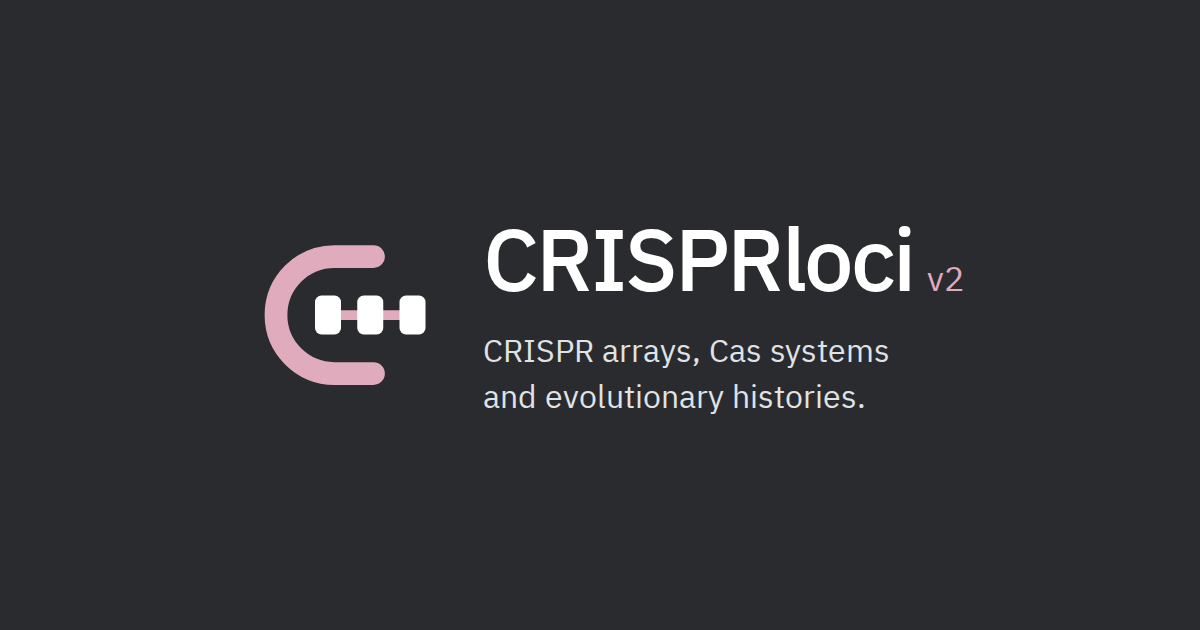
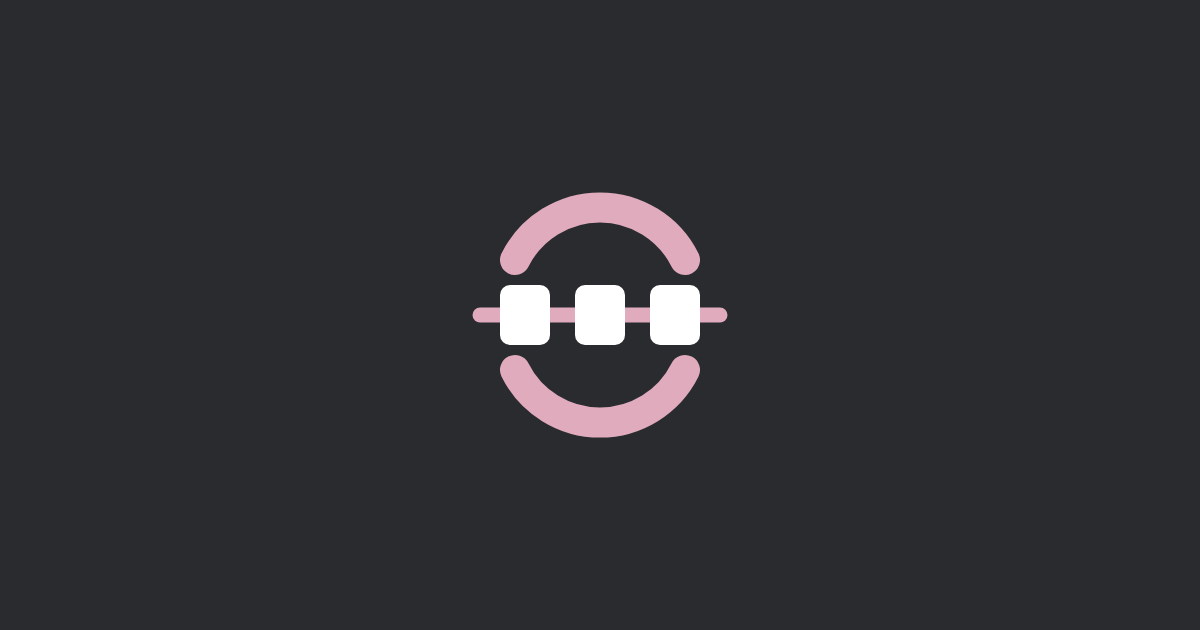
Create standalone symbol and use wordless sharing artwork

Changed region(s): [[0.2158, 0.3016, 0.8017, 0.6937]]

diff --git a/scripts/branding/social-card.html b/scripts/branding/social-card.html
@@ -2,18 +2,8 @@
 <html lang="en">
   <head>
     <meta charset="UTF-8" />
-    <title>CRISPRloci sharing artwork</title>
+    <title>CRISPRloci symbol sharing artwork</title>
     <style>
-      @font-face {
-        font-family: "IBM Plex Sans";
-        font-weight: 400;
-        src: url("../../src/assets/fonts/IBMPlexSans-Regular.woff2");
-      }
-      @font-face {
-        font-family: "IBM Plex Sans";
-        font-weight: 500;
-        src: url("../../src/assets/fonts/IBMPlexSans-Medium.woff2");
-      }
       * {
         box-sizing: border-box;
       }
@@ -21,50 +11,20 @@
         width: 1200px;
         height: 630px;
         margin: 0;
-        display: flex;
-        align-items: center;
-        justify-content: center;
-        padding: 80px;
-        gap: 38px;
-        color: #fff;
+        display: grid;
+        place-items: center;
         background: #292b2f;
-        font-family: "IBM Plex Sans", sans-serif;
       }
       img {
-        width: 208px;
-        height: 208px;
-        flex: 0 0 auto;
-      }
-      h1 {
-        margin: 0 0 20px;
-        font-size: 88px;
-        font-weight: 500;
-        letter-spacing: -3px;
-        line-height: 1.1;
-      }
-      h1 small {
-        margin-left: 14px;
-        color: #e0abbc;
-        font-size: 34px;
-        font-weight: 400;
-        letter-spacing: 0;
-      }
-      p {
-        margin: 0;
-        color: #e0e3e6;
-        font-size: 32px;
-        line-height: 1.45;
+        width: 320px;
+        height: 320px;
       }
     </style>
   </head>
   <body>
     <img
-      src="../../public/favicon.svg"
+      src="../../public/brand/logo-on-dark.svg"
       alt=""
     />
-    <div>
-      <h1>CRISPRloci<small>v2</small></h1>
-      <p>CRISPR arrays, Cas systems<br />and evolutionary histories.</p>
-    </div>
   </body>
 </html>

diff --git a/tests/social-metadata.test.js b/tests/social-metadata.test.js
@@ -14,7 +14,7 @@ describe("static sharing metadata", () => {
     (url) => {
       const tags = metadata(url);
       expect(tags["og:url"]).toBe(url);
-      expect(tags["og:image"]).toBe(`${url}brand/social-preview.png`);
+      expect(tags["og:image"]).toBe(`${url}brand/social-preview.png?v=3`);
       expect(tags["twitter:image"]).toBe(tags["og:image"]);
       expect(tags["og:image:type"]).toBe("image/png");
       expect(tags["og:image:width"]).toBe("1200");
@@ -25,7 +25,7 @@ describe("static sharing metadata", () => {
 
   it("keeps a project path when the configured site has no trailing slash", () => {
     expect(metadata("https://example.org/workbench")["og:image"]).toBe(
-      "https://example.org/workbench/brand/social-preview.png",
+      "https://example.org/workbench/brand/social-preview.png?v=3",
     );
   });
 

diff --git a/index.html b/index.html
@@ -17,18 +17,18 @@
     <link
       rel="icon"
       sizes="16x16 32x32 48x48"
-      href="%BASE_URL%favicon.ico"
+      href="%BASE_URL%favicon.ico?v=3"
     />
     <link
       rel="icon"
       type="image/svg+xml"
       sizes="any"
-      href="%BASE_URL%favicon.svg?v=2"
+      href="%BASE_URL%favicon.svg?v=3"
     />
     <link
       rel="apple-touch-icon"
       sizes="180x180"
-      href="%BASE_URL%apple-touch-icon.png"
+      href="%BASE_URL%apple-touch-icon.png?v=3"
     />
     <meta
       name="description"

diff --git a/src/components/common/BrandMark.vue b/src/components/common/BrandMark.vue
@@ -10,7 +10,7 @@ const publicBase = import.meta.env.BASE_URL;
   >
     <img
       class="brand-symbol"
-      :src="`${publicBase}favicon.svg?v=2`"
+      :src="`${publicBase}brand/logo-on-dark.svg?v=3`"
       width="40"
       height="40"
       alt=""

diff --git a/src/styles/responsive/print.css b/src/styles/responsive/print.css
@@ -8,7 +8,7 @@
     color: #000;
   }
   .brand-symbol {
-    filter: grayscale(1);
+    filter: brightness(0);
   }
   .hero::before,
   .hero::after,

diff --git a/scripts/render_brand_assets.py b/scripts/render_brand_assets.py
@@ -17,8 +17,16 @@ def main():
     parser.parse_args()
     root = Path(__file__).resolve().parents[1]
     public = root / "public"
-    (public / "brand").mkdir(exist_ok=True)
-    mark = (public / "favicon.svg").read_text()
+    brand = public / "brand"
+    mark = (brand / "logo.svg").read_text()
+    inverse = mark.replace("#922c49", "#e0abbc").replace("#292b2f", "#ffffff")
+    (brand / "logo-on-dark.svg").write_text(inverse)
+    favicon = inverse.replace(
+        "</title>",
+        '</title>\n  <rect width="64" height="64" rx="14" fill="#292b2f"/>',
+        1,
+    )
+    (public / "favicon.svg").write_text(favicon)
 
     with sync_playwright() as playwright:
         browser = playwright.chromium.launch(headless=True)
@@ -29,13 +37,20 @@ def main():
             page.locator("img").evaluate("image => image.decode()")
             page.screenshot(path=str(public / "brand/social-preview.png"))
 
+            page.set_viewport_size({"width": 512, "height": 512})
+            page.set_content(
+                "<style>html,body{margin:0;background:transparent}"
+                "svg{display:block;width:100vw;height:100vh}</style>" + mark
+            )
+            page.screenshot(path=str(brand / "logo.png"), omit_background=True)
+
             icons = []
             for size in (16, 32, 48, 180):
                 page.set_viewport_size({"width": size, "height": size})
                 background = "#292b2f" if size == 180 else "transparent"
                 page.set_content(
                     f"<style>html,body{{margin:0;background:{background}}}"
-                    "svg{display:block;width:100vw;height:100vh}</style>" + mark
+                    "svg{display:block;width:100vw;height:100vh}</style>" + favicon
                 )
                 pixels = page.screenshot(omit_background=size != 180)
                 if size == 180:
@@ -51,7 +66,7 @@ def main():
             (public / "favicon.ico").write_bytes(directory + b"".join(pixels for _, pixels in icons))
         finally:
             browser.close()
-    print("Rendered social-preview.png (1200×630), apple-touch-icon.png (180×180), favicon.ico.")
+    print("Rendered standalone logo.png (512×512, transparent), dark SVG, sharing card and icons.")
 
 
 if __name__ == "__main__":

diff --git a/README.md b/README.md
@@ -207,13 +207,16 @@ API origin: configured by the operator at build time.
 
 ## Brand and link previews
 
-`public/favicon.svg` is the shared source for the header mark and browser icon:
-a rose C enclosing three repeats connected by spacers. The artwork uses the
-site's charcoal, rose and white palette and the bundled IBM Plex Sans typeface.
+`public/brand/logo.svg` is the standalone, transparent logo source: three repeats
+connected by a sequence line and framed by curved locus boundaries. The symbol
+contains no letters, words or tagline. `public/brand/logo.png` is a transparent
+512 px export. `public/brand/logo-on-dark.svg` is the rose and white variant used
+in the header, with the site name rendered separately as ordinary HTML text.
 `public/favicon.ico` includes 16, 32 and 48 px fallbacks; the Apple touch icon is
-180 px. `public/brand/social-preview.png` is a 1200 × 630 sharing card.
+180 px. `public/brand/social-preview.png` is a 1200 × 630 sharing card showing
+only the symbol. The page title and description remain in the link metadata.
 
-To regenerate the committed raster assets after editing the mark or
+To regenerate the committed variants and raster assets after editing `logo.svg` or
 `scripts/branding/social-card.html`, run `python scripts/render_brand_assets.py`
 in an environment with Python Playwright and Chromium. Image generation is not
 part of the normal frontend build.
